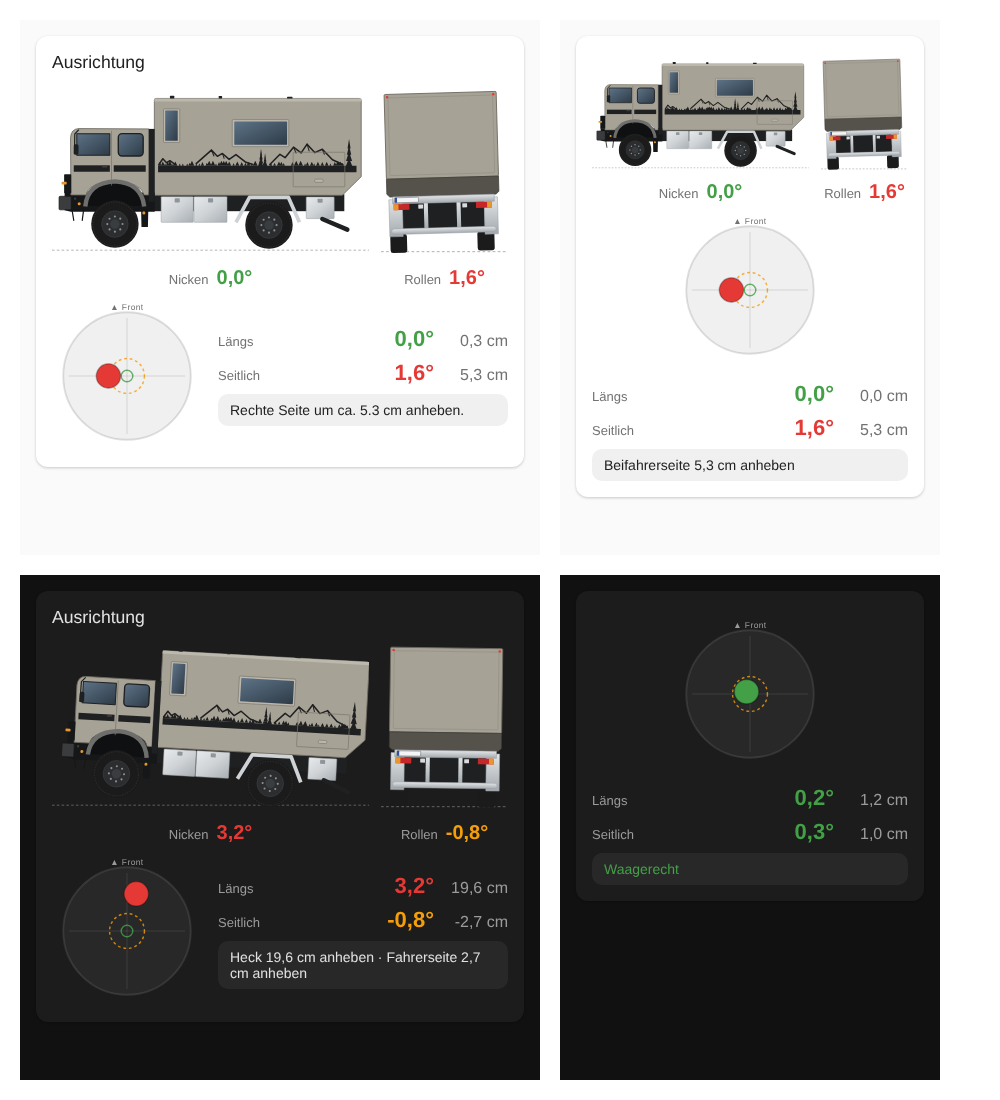
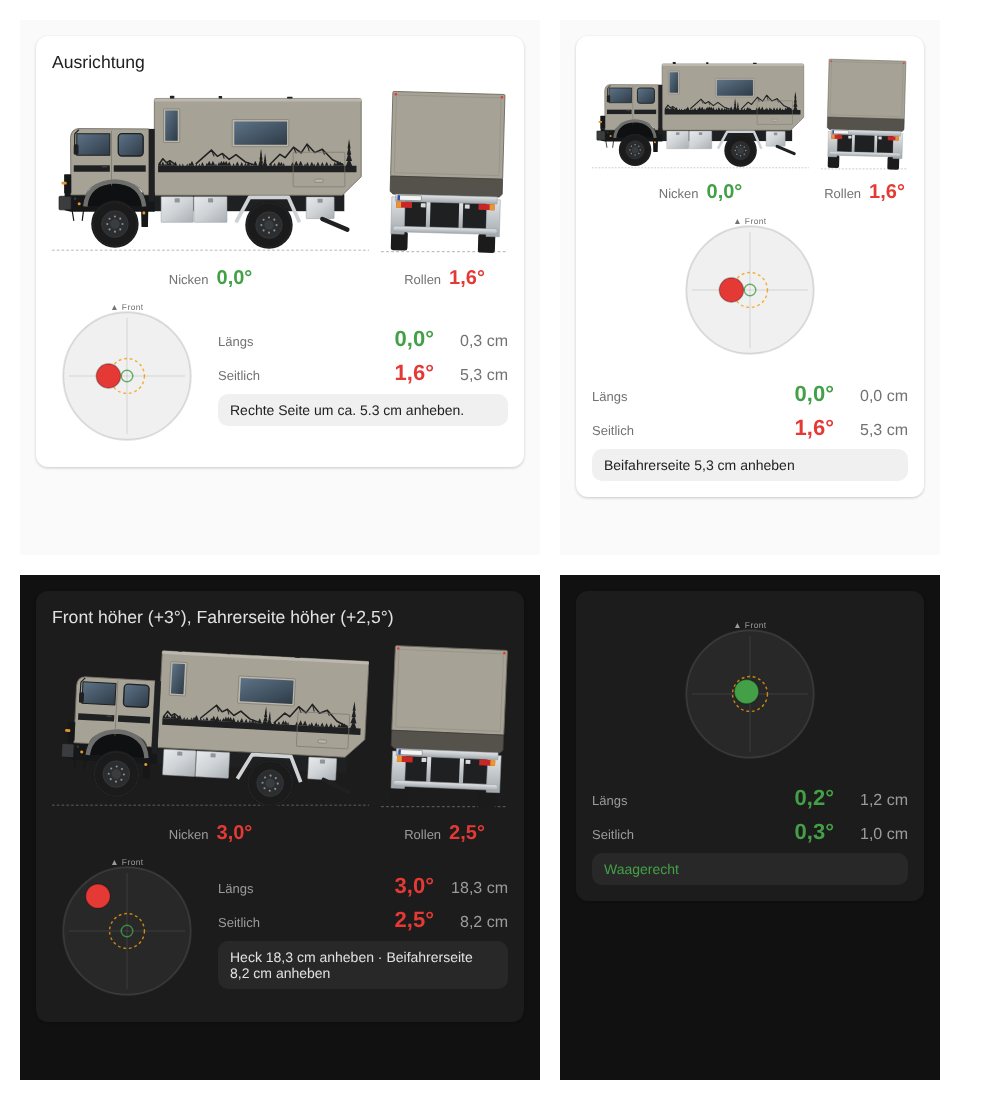
0.4.2: Heckansicht dreht korrekt (Fahrerseite links), Umkehr-Optionen für Nicken/Rollen
Claude-Session: https://claude.ai/code/session_013DCenfRdCFAbqtyfTagYZP

diff --git a/custom_components/ha_compass/www/ha-compass-card.js b/custom_components/ha_compass/www/ha-compass-card.js
@@ -3,7 +3,7 @@
  * Teil von HA-Compass (Apache-2.0). Sonnen-/Mondberechnung: SunCalc-Port
  * (BSD-2-Clause, © 2014 Vladimir Agafonkin) – siehe NOTICE.
  */
-const CARD_VERSION = "0.4.1";
+const CARD_VERSION = "0.4.2";
 
 /* ------------------------------------------------------------ Astronomie (SunCalc) */
 const RAD = Math.PI / 180, DAY_MS = 86400000, J1970 = 2440588, J2000 = 2451545, E = RAD * 23.4397;
@@ -471,6 +471,7 @@ class HaLevelCard extends HTMLElement {
   static DEFAULTS = {
     wheelbase: 3500, track_width: 1886, bubble_range: 5, tolerance: 0.5, warn: 1.5,
     show_views: true, show_bubble: true, show_values: true, show_hint: true,
+    invert_pitch: false, invert_roll: false,
   };
 
   static getStubConfig() {
@@ -491,6 +492,7 @@ class HaLevelCard extends HTMLElement {
             num("wheelbase", 1000, 8000, 10, "mm"), num("track_width", 1000, 3000, 10, "mm"),
             num("tolerance", 0.1, 5, 0.1, "°"), num("warn", 0.2, 10, 0.1, "°"), num("bubble_range", 1, 20, 1, "°"),
           ] },
+          { type: "grid", name: "", schema: [bool("invert_pitch"), bool("invert_roll")] },
         ] },
         { type: "expandable", name: "", title: "Optionale Entitäten (statt Berechnung)", flatten: true, schema: [
           { name: "height_long_entity", selector: { entity: { domain: "sensor" } } },
@@ -503,7 +505,7 @@ class HaLevelCard extends HTMLElement {
         show_views: "Fahrzeugansichten", show_bubble: "Libelle", show_values: "Werte", show_hint: "Hinweis",
         wheelbase: "Radstand", track_width: "Spurweite", tolerance: "Toleranz (grün)", warn: "Warnschwelle (gelb)",
         bubble_range: "Libelle Vollausschlag", height_long_entity: "Höhendifferenz längs", height_side_entity: "Höhendifferenz seitlich",
-        hint_entity: "Nivellierhinweis",
+        hint_entity: "Nivellierhinweis", invert_pitch: "Nicken umkehren", invert_roll: "Rollen umkehren",
       }[s.name]),
     };
   }
@@ -544,7 +546,9 @@ class HaLevelCard extends HTMLElement {
     if (!this.shadowRoot || !this._config) return;
     if (!this._hass) { this.shadowRoot.innerHTML = ""; return; }
     const c = this._config, t = this._t();
-    const pitch = this._num(c.pitch_entity), roll = this._num(c.roll_entity);
+    const rawP = this._num(c.pitch_entity), rawR = this._num(c.roll_entity);
+    const pitch = rawP == null ? null : (c.invert_pitch ? -rawP : rawP);
+    const roll = rawR == null ? null : (c.invert_roll ? -rawR : rawR);
     const p = pitch ?? 0, r = roll ?? 0;
 
     /* Höhendifferenzen: aus Entitäten oder aus Radstand/Spurweite (cm) */
@@ -573,7 +577,7 @@ class HaLevelCard extends HTMLElement {
     const views = !c.show_views ? "" : `
       <div class="views">
         ${view(SIDE_SVG, "-15 -25 729 408", 357, p, t.pitch, pitch, this._cls(pitch), 420)}
-        ${view(REAR_SVG, "-15 -25 275 392", 345, -r, t.roll, roll, this._cls(roll), 170)}
+        ${view(REAR_SVG, "-15 -25 275 392", 345, r, t.roll, roll, this._cls(roll), 170)}
       </div>`;
 
     /* Libelle: Blase wandert zur höheren Seite (oben = Front, links = Fahrerseite) */

diff --git a/dashboard/README.md b/dashboard/README.md
@@ -117,5 +117,9 @@ hint_entity: sensor.technik_wasserwaage_nivellier_hinweis
 | `wheelbase` / `track_width` | `3500` / `1886` mm | Basis für die berechneten Höhendifferenzen |
 | `tolerance` / `warn` | `0.5` / `1.5` ° | Farbgrenzen |
 | `bubble_range` | `5` ° | Vollausschlag der Libelle |
+| `invert_pitch` / `invert_roll` | `false` | Vorzeichen umkehren, falls der Sensor andersherum zählt |
+
+Drehrichtung: Nicken + (Front höher) dreht die Seitenansicht im Uhrzeigersinn, Rollen + (Fahrerseite höher) dreht die Heckansicht im Uhrzeigersinn
+(von hinten gesehen liegt die Fahrerseite links). Die Libellenblase wandert immer zur höheren Seite.
 
 Sobald der SCL3300 verbaut ist, liefert der Kompass-ESP Nicken und Rollen selbst – dann nur die Entitäten umstellen.
